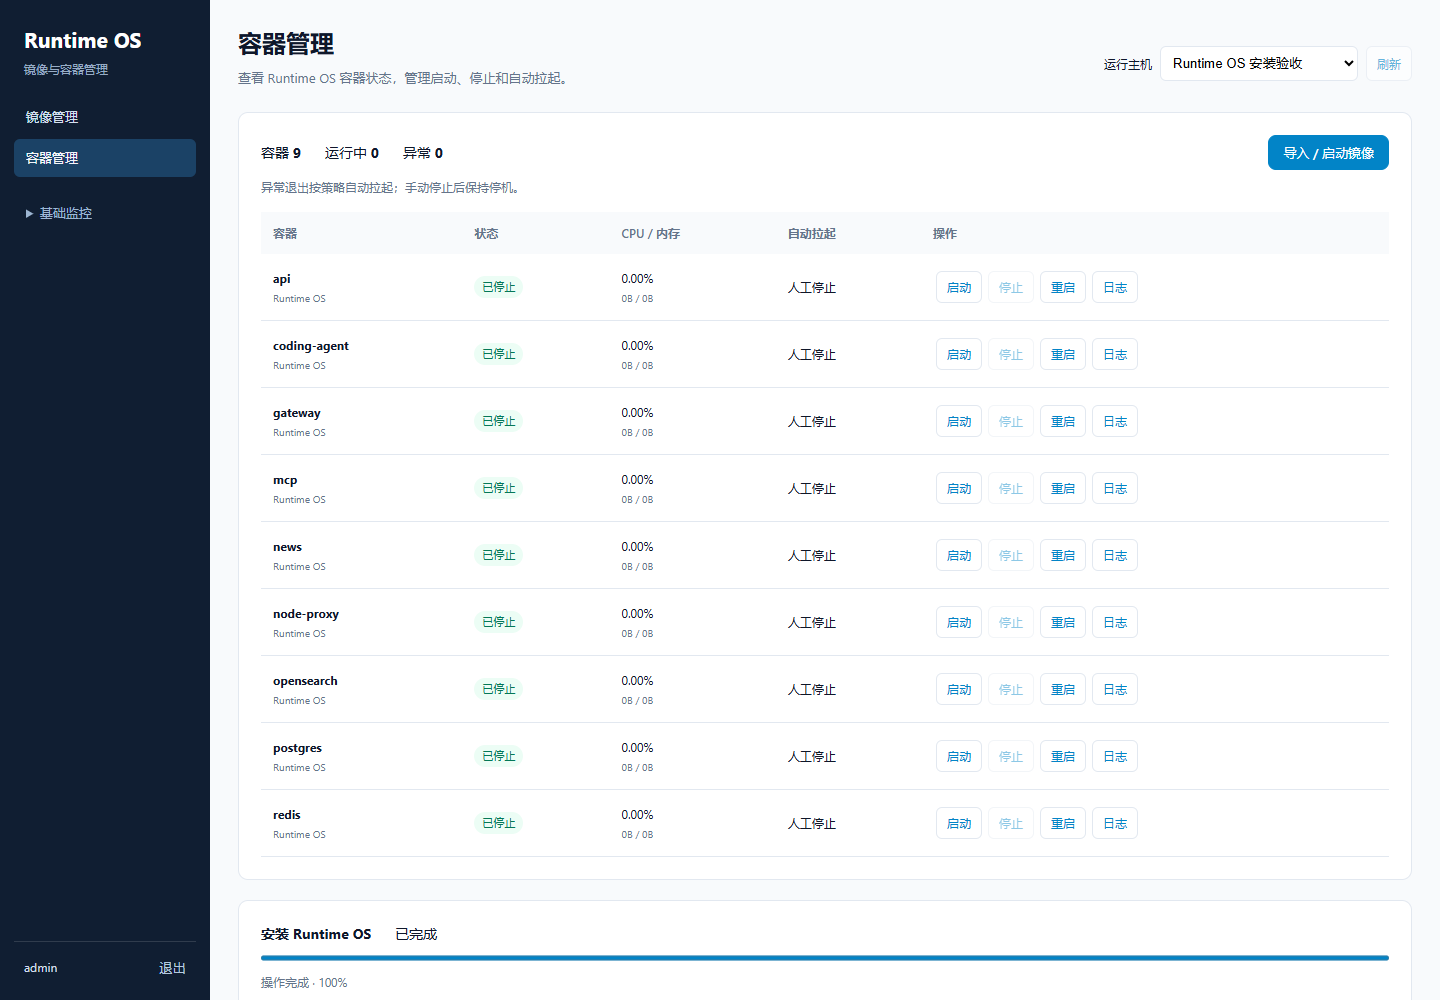
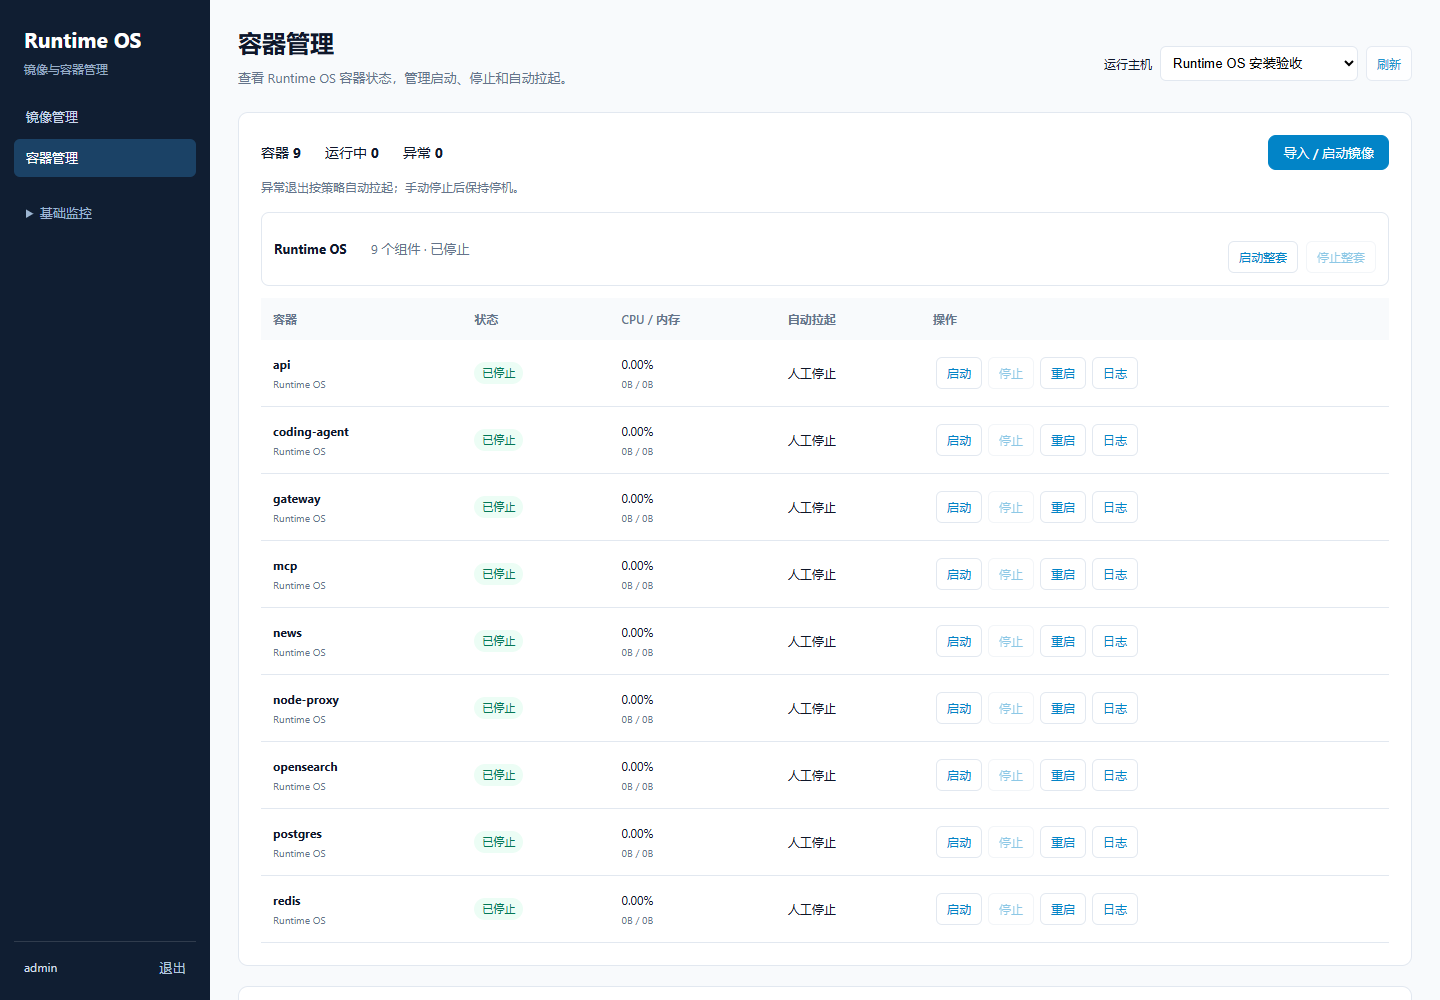
docs(delivery): finalize verified Runtime OS installation release

diff --git a/docs/container-ops/12-one-click-installation.md b/docs/container-ops/12-one-click-installation.md
@@ -2,6 +2,8 @@
 
 目标是新客户环境的完整安装。运维界面仍只有镜像管理、容器管理、基础监控；在镜像管理点击“安装 Runtime OS”，依次上传正式安装包、确认必要配置、检查并授权、查看安装结果。后台执行镜像导入、依赖启动、数据库初始化、应用健康检查与监控登记。不从镜像名称推测依赖，不执行上传包提供的主机 Shell 命令。
 
+安装完成后进入容器管理，使用“启动整套 / 停止整套”管理整套 Runtime OS；组件行保留独立启动、停止、重启与日志按钮。整套停止会记录人工停机意图，保留数据并继续采集，不会触发异常拉起。
+
 ## 安装包与制作
 
 安装包是带签名的 `.install.tar.gz`，不同于普通 `docker save` 镜像包。根目录包含 `installer.json`、`installer.sig` 及清单明确声明的镜像和模板文件。协议 `live-monitor.install.v1` 声明产品、版本、镜像内容 ID、每个文件 SHA256、参数、Compose 配置、资源需求、初始化资产、健康检查和访问入口。所有镜像由不可变配置 ID 引用。
@@ -23,13 +25,13 @@ python3 build-install-bundle.py --definition /build/definition/installer-definit
 前提是 Linux/amd64 主机已安装 Docker 与 Compose，平台已通过固定命令 SSH Agent 连接该主机。这属于平台安装初始化，客户日常安装不需要打开控制台。首次安装 Agent 时通过可信交付渠道配置发行公钥、允许的产品及必要能力；不得信任上传包自带的公钥。随交付的 `deploy/container-platform/trust/runtime-os-release-20261025.pub` 是本次发行公钥。
 
 ```bash
-python3 install-agent-release.py --release /release/verified-agent --target /opt/live-monitor-agent \
-  --installer-product runtime-os --trust-public-key /release/runtime-os-release-20261025.pub \
+python3 /release/ops/tools/install-agent-release.py --release /release/ops/agent --target /opt/live-monitor-agent \
+  --installer-product runtime-os --trust-public-key /release/ops/container-platform/trust/runtime-os-release-20261025.pub \
   --installer-capability docker_socket --installer-capability host_identity \
   --installer-max-cpus 4 --installer-max-memory-mb 4096
 ```
 
-Agent 清单应包含 agent.py、stack_ops.py、installer.py 及其 SHA256。公钥安装到 root 管理的信任目录。安装资源额度独立于原单容器操作额度，不为了安装大服务放宽普通容器策略。标准包需要约 16 GiB 主机内存、8 核及足够镜像、临时文件和数据空间；安装前还校验当前可用内存、磁盘、版本、地址和端口。主机发布接口由 Agent 既有 `publish_address` 决定，平台不自动修改防火墙。
+平台发行包的 `ops/agent/agent-release.json` 包含 agent.py、stack_ops.py、installer.py 的 SHA256。源代码修改后，发行方须同步维护该清单；Agent Python 文件固定 LF 换行，避免跨系统打包改变摘要。公钥安装到 root 管理的信任目录。安装资源额度独立于原单容器操作额度，不为了安装大服务放宽普通容器策略。标准包需要约 16 GiB 主机内存、8 核及足够镜像、临时文件和数据空间；安装前还校验当前可用内存、磁盘、版本、地址和端口。主机发布接口由 Agent 既有 `publish_address` 决定，平台不自动修改防火墙。
 
 ## 执行与数据保护
 
@@ -43,7 +45,7 @@ Agent 清单应包含 agent.py、stack_ops.py、installer.py 及其 SHA256。公
 
 ## 验证记录
 
[2 lines of base64/hex data omitted]
 
[1 lines of base64/hex data omitted]
 
@@ -56,10 +58,11 @@ Agent 清单应包含 agent.py、stack_ops.py、installer.py 及其 SHA256。公
 | 监控 | 九组件接入既有后台采集，CPU/内存可见；重开浏览器可恢复安装结果，无页面异常 |
 | 异常拉起 | 仅对隔离安装的 gateway 进程注入异常退出，原生重启次数 0→1，4.62 秒恢复 HTTP 访问 |
 | 幂等 | 重复提交同一安装请求返回同一任务，没有重复安装 |
+| 整套启停 | 从容器页面点击“启动整套”，九组件恢复健康；点击“停止整套”后整体停机，持续采集且未自动重启 |
 | 人工停机 | 平台停止整个隔离项目；继续观察 75 秒，九组件保持停止且标记人工停机 |
 | 存量保护 | 38 个既有非目标容器 ID、镜像和启动时间未变化，原生产 Runtime OS 健康 |
 
-验收项目 `lm-installer-acceptance-install-ee4c01acf8658e111766` 已停止以释放资源，其数据与诊断保留。18080 的生产控制面继续服务原 Runtime OS。没有替换旧业务数据库或修改原业务容器。发布前控制面数据库冷备位于 `/opt/live-monitor-production-migration/installer-platform-563a5a4/control-data-backup`。
+验收项目 `lm-installer-acceptance-install-ee4c01acf8658e111766` 最终停止以释放资源，其数据与诊断保留。18080 的生产控制面继续服务原 Runtime OS。没有替换旧业务数据库或修改原业务容器。最新发布前控制面数据库冷备位于 `/opt/live-monitor-production-migration/installer-platform-09f5763/control-data-backup`。
 
 验收证据见 [installer-evidence](installer-evidence/)。本次在同一物理服务器上的独立目录、网络和环境完成验证；尚未以另一台全新物理服务器验证所有防火墙、离线操作系统依赖及客户许可证。许可证、模型连接和客户业务任务需要在客户激活配置后另行验收。当前新装不提供覆盖既有安装的数据迁移或原地升级。
 
